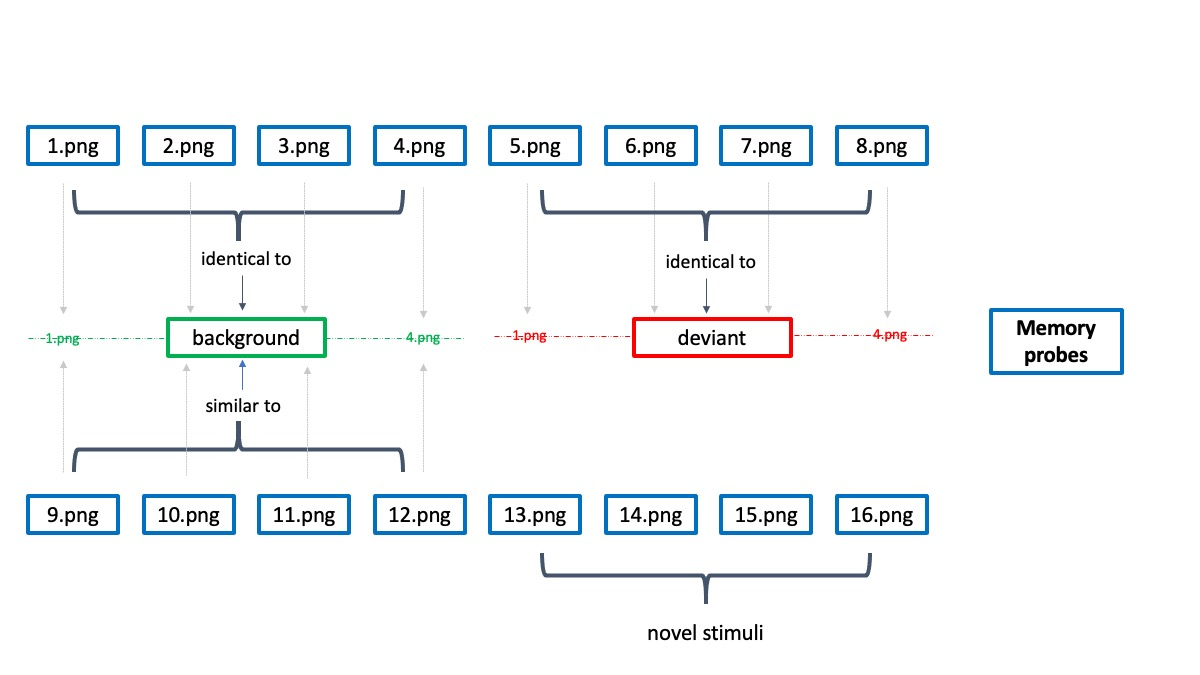
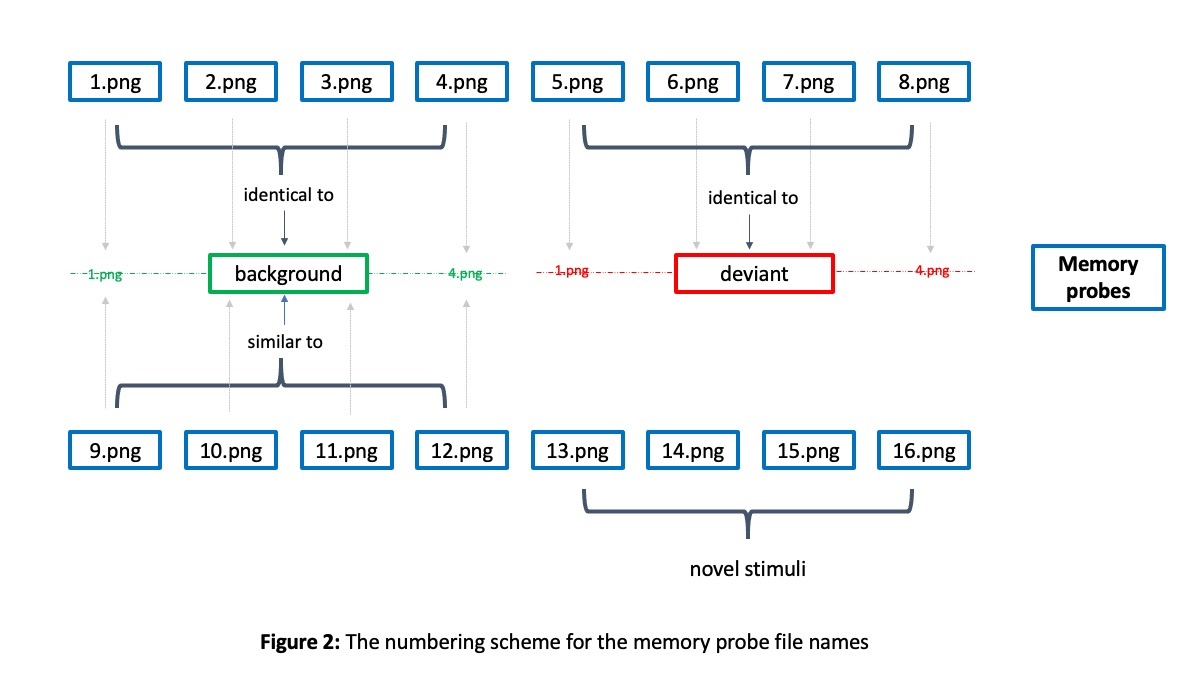
slightly enlarged images, added captions and finished readme page

diff --git a/experiment.html b/experiment.html
@@ -68,8 +68,6 @@
     //timeline = timeline.concat(practice_block)
 
 // Setting up the main task
-var SET_NUM = 1
-var BLOCK_LENGTH = 3
 ALL_STIMULI_PATH = get_all_stimuli() // all stimuli
 ALL_SET_COMBINATION = generate_set_combination(ALL_STIMULI_PATH)
 
@@ -84,14 +82,12 @@ add_probes(ALL_SET_COMBINATION, ALL_STIMULI_PATH)
 //console.log(ALL_STIMULI_PATH)
 console.log(ALL_SET_COMBINATION)
 
-
+// main experimental parameters
+SET_NUM = 1
+BLOCK_LENGTH = 3
 POSSIBLE_DEV_POSITION = [2]
 BASELINE_TYPE = ["simple_a", "simple_b", "complex_a", "complex_b"]
 DEVIANT_TYPE = ["simple_similar", "simple_dissimilar", "complex_similar", "complex_dissimilar"]
-
-//BLOCK_GROUP_TYPE = ["simple_a"]
-//BLOCK_TYPE = ["simple_similar"]
-
 
 for (i = 0; i < ALL_SET_COMBINATION.length; i ++ ){
     current_set_combination = ALL_SET_COMBINATION[i]

diff --git a/README.md b/README.md
@@ -1,10 +1,12 @@
 # Documentation
 
-### Logic of  experiment.html
+## Logic of  experiment.html
 
 **experiment.html** is the central file in this repo. It plays two roles:
 1) It is the main experiment file, so it can be run in a browser window as the main experiment
 2) It contains the code which controls the main flow of the experiment.
+
+### Loading block types through helper functions
 
 **experiment.html** first loads all the possible types of blocks. This is achieved through three helper functions:
  - `get_all_stimuli()`: Generates an object which contains three arrays. Each array is a list of paths to all the stimuli files of one stimulus type (background, deviant, probes). The output of this function (let's call it `'paths'`) indexed by the stimulus type will return this array. For example `get_all_stimuli().background` will return an array of paths to all the background stimuli.
@@ -19,14 +21,31 @@
 
          {background: "images/stimuli/1/background/3.png",
            deviant: "images/stimuli/1/deviant/2.png",
-           probes: ["images/training/1/probes/3.png",
-                    "images/training/1/probes/6.png",
-                    "images/training/1/probes/11.png",
-                    "images/training/1/probes/14.png"]}
+           probes: ["images/stimuli/1/probes/3.png",
+                    "images/stimuli/1/probes/6.png",
+                    "images/stimuli/1/probes/11.png",
+                    "images/stimuli/1/probes/14.png"]}
 
 
-# The images/stimuli folder
-How do I know which paths will be returned after running the example command above? The answer lies in the folder structure of the images/stimuli folder, which contains the stimuli that are displayed during the experiment.
+### Experiment parameters
+We will return to why exactly those paths were loaded in the next section. But for now, let's proceed with how experiment.html controls the experimental flow. After `obj` has been generated, the three main parameters of the experiment are determined:
+- `SET_NUM`: The number of stimuli sets (composed of four background, four deviant and sixteen memory probes)
+- `BLOCK_LENGTH`: The length of each block, which will be composed of `BlOCK_LENGTH-1` background presentations and one deviant presentation.
+- `POSSIBLE_DEV_POSITION`: A list of integers denoting the positions in the block in which the deviant can appear.
+
+### Pushing blocks to the timeline
+With `obj` storing the block types, we use the parameters above to loop through three levels:
+- The outermost loop is based on the length of `POSSIBLE_DEV_POSITION`.
+- The second loop goes through each background type (in this case four).
+- The innermost loop goes through each deviant type.
+
+In the center of all of these loops, two things happen:
+- The block of the specified length is filled with background stimuli, except for the deviant at the position specified by the outermost loop. This block is then pushed to the [`jsPsych`](https://www.jspsych.org/) timeline for stimulus presentation.
+
+- An index is generated which randomly chooses from the array of memory  probes. This probe is then also pushed to the timeline, right after the background-deviant block, along with a prompt to respond whether the participant has seen the probe in the preceding block.
+
+## The images/stimuli folder
+How do I know which paths will be returned after running the example command `obj.complex_a.simple_dissimilar` in the previous section? The answer lies in the folder structure of the images/stimuli folder, which contains the stimuli that are displayed during the experiment.
 The folder structure is as follows:
 
 * Stimuli
@@ -64,13 +83,9 @@ You should now be able to understand why the output of `obj.complex_a.simple_dis
 
          {background: "images/stimuli/1/background/3.png",
            deviant: "images/stimuli/1/deviant/2.png",
-           probes: ["images/training/1/probes/3.png",
-                    "images/training/1/probes/6.png",
-                    "images/training/1/probes/11.png",
-                    "images/training/1/probes/14.png"]}
+           probes: ["images/stimuli/1/probes/3.png",
+                    "images/stimuli/1/probes/6.png",
+                    "images/stimuli/1/probes/11.png",
+                    "images/stimuli/1/probes/14.png"]}
 
-# The js folder
-
-This folder contains scripts of two types:
-- 1. [jsPsych](https://www.jspsych.org/) scripts for displaying the stimuli easily.
-- 2. Helper functions (described above in **Logic of  experiment.html**)
+The reason is that `complex_a` corresponds to the complex background image `3.png`, `simple_dissimilar` corresponds to `2.png`, because it is the deviant that is simple and dissimiliar to that background image. This can be seen in **Figure 1**. The probes corresponding to this background-deviant pair are `3.png` (identical to background), `6.png` (identical to deviant), `11.png` (similar to background) and `14.png` (a novel stimulus). This can be seen in **Figure 2**.
